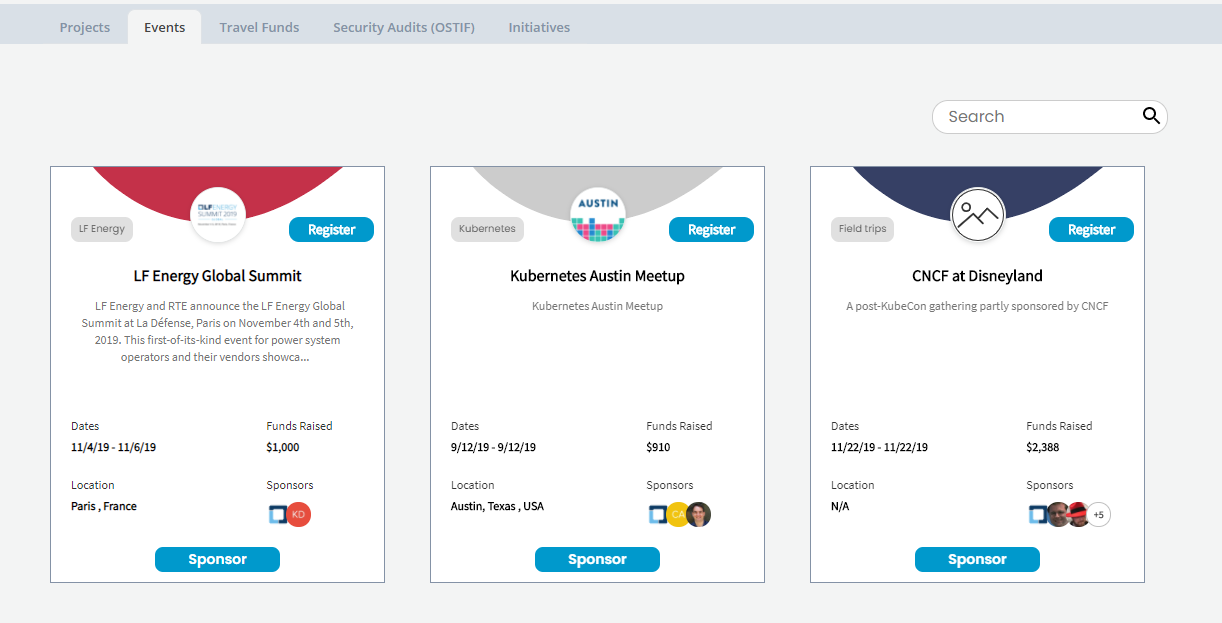
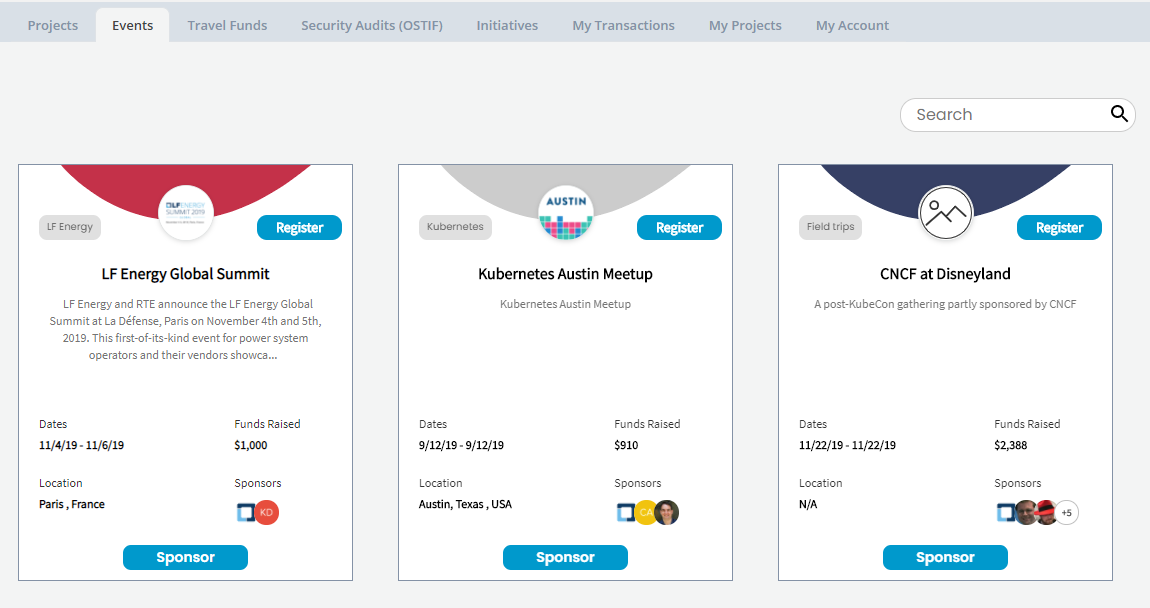
GitBook: [master] 23 pages and 12 assets modified

diff --git a/crowdfunding/dashboard/README.md b/crowdfunding/dashboard/README.md
@@ -2,9 +2,9 @@
 
 Dashboard gives an overview of projects, events, travel funds, security audits, and initiatives of Crowdfunding.
 
-1. [Sign in ](../../sso/sign-in/)to [Crowdfunding](https://funding.communitybridge.org/).
+1. [Sign in ](../../sso/sign-in/)to [Crowdfunding](https://crowdfunding.lfx.linuxfoundation.org/).
 2. From [Projects ](./#Dashboard-ProjectsandMentorships)tab, click a project to navigate to the project dashboard.
-3. Navigate to other tabs, such as [Events](./#Dashboard-Events), [Travel Funds](./#Dashboard-TravelScholarships), [Security Audits \(OSTIF\)](./#security-audits-ostif), [Initiatives](./#initiatives) to learn more about each. 
+3. Navigate to other tabs, such as [Events](./#Dashboard-Events), [Travel Funds](./#Dashboard-TravelScholarships), [Security Audits \(OSTIF\)](./#security-audits-ostif), [Initiatives](./#initiatives), [My Transactions](./#my-transactions), [My Projects](./#my-projects), and [My Account](./#my-account) to learn more about each. 
 4. To participate:
    * [Apply to raise fund for a project](../apply-for-crowdfunding/)
      * [Add a GitHub project](../apply-for-crowdfunding/add-a-github-project.md)
@@ -29,7 +29,7 @@ Dashboard gives an overview of projects, events, travel funds, security audits, 
 
 To learn more, see [Projects](projects.md).
 
-![](../../.gitbook/assets/funding-project-cards.png)
+![Crowdfunding Projects](../../.gitbook/assets/crowdfunding-projects.png)
 
 ## Events <a id="Dashboard-Events"></a>
 
@@ -45,7 +45,7 @@ To learn more, see [Projects](projects.md).
 
 To learn more, see [Events](events.md).
 
-![](../../.gitbook/assets/crowdfunding-events.png)
+![Crowdfunding Events](../../.gitbook/assets/crowdfunding-events.png)
 
 ## Travel Funds <a id="Dashboard-TravelScholarships"></a>
 
@@ -60,7 +60,7 @@ To learn more, see [Events](events.md).
 
 To learn more, see [Travel Funds](travel-funds.md).
 
-![](../../.gitbook/assets/funding-travel-funds.png)
+![Crowdfunding Travelfunds](../../.gitbook/assets/crowdfunding-travel-funds.png)
 
 ## Security Audits \(OSTIF\)
 
@@ -75,11 +75,27 @@ To learn more, see [Travel Funds](travel-funds.md).
 
 To learn more, see [Security Audit](security-audit.md).
 
-![ ](../../.gitbook/assets/security-audit-projects.png)
+![Crowdfunding Projects applied for Security Audit](../../.gitbook/assets/crowdfunding-security-audits.png)
 
 ## Initiatives
 
 Initiatives section includes open-source initiatives for which people have raised funds. You can click an initiative to learn more about it. For details to know about an initiative, see the [project/initiative details](projects.md). Click **Donate** to support the initiative. To know more, see [Initiatives](initiatives.md).
 
-![](../../.gitbook/assets/initiatives.png)
+![Crowdfunding Initiatives](../../.gitbook/assets/crowdfunding-initiatives.png)
+
+## My Transactions
+
+My Transactions shows your monthly donations and lists all your transactions. For details, see [My Transactions](../manage-your-crowdfunding-account.md#my-transactions).
+
+## My Projects
+
+My Projects lets you see all the projects, security audits, initiatives, events, and funds that you maintain all in one place. You can see the status of a project, for example "Pending approval".
+
+Click a project to see the fund details.Click **Edit** on a card to edit the fund details.
+
+## My Account
+
+**My Account** lets you manage your organization, and payment method. For details, see [My Account](../manage-your-crowdfunding-account.md#my-account).
+
+\*\*\*\*
 

diff --git a/crowdfunding/README.md b/crowdfunding/README.md
@@ -27,12 +27,12 @@ Designated **beneficiaries** get reimbursed for their work efforts by submitting
 
 You can participate by applying and submitting your open source project, initiative or event to raise money through crowdfunding, as well as by donating to projects, and sponsoring events and travel funds. 
 
-You must have an [LF SSO account](../sso/create-an-account.md) to sign in to [crowdfunding](https://funding.communitybridge.org/) to participate. For Sign In details, please see [sign in to your account.](../sso/sign-in/)  
+You must have an [LF SSO account](../sso/create-an-account.md) to sign in to [crowdfunding](https://crowdfunding.lfx.linuxfoundation.org/) to participate. For Sign In details, view [sign in to your account.](../sso/sign-in/)  
 **Note:** If you already have an LF SSO account,  you can sign in using your SSO credentials.
 
 ### **Submit an application** <a id="CommunityBridgeFunding-ApplyingforFunding"></a>
 
-**As an individual/project administrator**, ****you can [submit an application](apply-for-crowdfunding/) to list your category on crowdfunding and raise funds for your Git-based open source project. After your fund is approved by the Linux Foundation, it will be publicly visible on the crowdfunding [dashboard](https://funding.communitybridge.org/). You can also apply for event crowdfunding or travel funds by submitting an [Event Application Form](event-application.md) or a [Travel Fund application form](travel-fund-application.md). 
+**As an individual/project administrator**, ****you can [submit an application](apply-for-crowdfunding/) to list your category on crowdfunding and raise funds for your Git-based open source project. After your fund is approved by the Linux Foundation, it will be publicly visible on the [crowdfunding dashboard](https://crowdfunding.lfx.linuxfoundation.org/). You can also apply for event crowdfunding or travel funds by submitting an [Event Application Form](event-application.md) or a [Travel Fund application form](travel-fund-application.md). 
 
 ### Donating/Sponsoring <a id="CommunityBridgeFunding-Donating/Sponsoring"></a>
 

diff --git a/crowdfunding/manage-your-crowdfunding-account.md b/crowdfunding/manage-your-crowdfunding-account.md
@@ -1,0 +1,45 @@
+# Manage Your Crowdfunding Account
+
+You can manage your Crowdfunding account, for example view a record of all your transactions or modify your monthly donations, add organization, add payment method, and so on.
+
+1. [Sign in](../sso/sign-in/) to [Crowdfunding](https://crowdfunding.lfx.linuxfoundation.org/), and select a tab:
+
+* [My Transactions](manage-your-crowdfunding-account.md#my-transactions)
+* [My Projects](manage-your-crowdfunding-account.md#my-projects)
+* [My Account](manage-your-crowdfunding-account.md#my-account)
+
+### My Transactions
+
+My Transactions shows your monthly donations and lists all your transactions with details.
+
+* Click **Cancel Monthly Subscription** on a project to cancel your donation subscription. Click **Yes, cancel subscription** on the confirmation dialog that appears.
+* Click **Discover projects** to go to the Projects page. This option appears when you do not have any Monthly Donations.
+
+![](../.gitbook/assets/7417305.png)
+
+### My Projects
+
+My Projects lets you see all the projects, security audits, initiatives, events, and funds that you maintain all in one place. You can see the status of a project, for example "Pending approval".
+
+Click a project to see the fund details.Click **Edit** on a card to edit the fund details.
+
+**Note: Mentorship Goal** is displayed under **Fund Distribution** if your project is enrolled in the Mentorship program. 
+
+### **My Account**
+
+**My Account** lets you manage your organization, and payment method.
+
+**Manage Organization** lets you add or edit your organization. Click **+ Add Organization** to add an organization.
+
+![](../.gitbook/assets/7417301.png)
+
+**Payment Method** lets you add or change your credit or debit card provider and number.
+
+Click **Add Card** to add your card details.
+
+![](../.gitbook/assets/add-card.png)
+
+Click **Edit Card** or **Delete Card** to edit or delete an existing payment method, respectively.
+
+![](../.gitbook/assets/7417299.png)
+

diff --git a/crowdfunding/dashboard/travel-funds.md b/crowdfunding/dashboard/travel-funds.md
@@ -2,7 +2,7 @@
 
 Travel Funds provide financial assistance to need-based individuals for travel expenses such as travel to a Linux Foundation conference or an open source project-related technical summit. You can donate to the travel funds that you want to support.
 
-1. [Sign in ](../../sso/sign-in/)to [Funding](https://funding.communitybridge.org/), click [Travels Funds](./#Dashboard-TravelScholarships) tab, and select a travel fund to navigate to the dashboard.
+1. [Sign in ](../../sso/sign-in/)to [Crowdfunding](https://crowdfunding.lfx.linuxfoundation.org/), click [Travels Funds](./#Dashboard-TravelScholarships) tab, and select a travel fund to navigate to the dashboard.
 2. Select one of the following tabs to view details:
    * [Overview](travel-funds.md#TravelScholarships-Overview)
    * [Dashboard](travel-funds.md#TravelScholarships-Dashboard)
@@ -33,9 +33,10 @@ The Dashboard shows various aspects of the fund depending on the data that is av
 | **Current Balance** | The total amount of funds available in the account. |
 | **Donations** | The amount of money that has been donated to the project. |
 | **Expenses**  | The amount of money spent or costs incurred for the project, which indicate the cost of doing business. |
-| **Travel Funding Distribution** | Shows how meet-up funds are distributed and their dollar amounts. |
+| **Travel Fund Funding Distribution** | Shows how meet-up funds are distributed and their dollar amounts. |
+| **Breakdown** | The financial goal and progress towards it by individual goal. |
+| **Recent Transactions** | Lists recorded financial transactions in chronological order. Click **View all transactions** to see a log of transactions in the Financial tab. |
 
-  
 View an example of a travel fund dashboard section:
 
 ![](../../.gitbook/assets/7418524%20%281%29.jpg)

diff --git a/crowdfunding/dashboard/events.md b/crowdfunding/dashboard/events.md
@@ -2,7 +2,7 @@
 
 Events page displays the project related events that are organized for specific reasons. You can [donate](../donate-sponsor/) to the events that you want to support, and also [register](../register-for-an-event.md) to attend an event.
 
-1. [Sign in ](../../sso/sign-in/)to [Funding](https://funding.communitybridge.org/), click [Events](./#Dashboard-Events) tab, and select an event to navigate to the event's dashboard. 
+1. [Sign in ](../../sso/sign-in/)to [Crowdfunding](https://crowdfunding.lfx.linuxfoundation.org/), click [Events](./#Dashboard-Events) tab, and select an event to navigate to the event's dashboard. 
 2. Select one of the following tabs to view details:
    * [Overview](events.md#Events-Overview)
    * [Dashboard](events.md#Events-Dashboard)
@@ -21,7 +21,6 @@ The overview shows some or all of the following items depending on the data that
 | **Sponsor** | Click Sponsor to [donate](../donate-sponsor/) to the event. |
 | **Current Balance** | The total amount of funds available in the account. |
 | **Sponsor Organizations** | The logos of companies that sponsor the project. |
-| **Sponsorships** | The logos for the types of sponsorships. |
 
   
 View an example of an event overview section:
@@ -48,7 +47,7 @@ View an example of an event dashboard section:
 
 ## Financial <a id="Events-Financial"></a>
 
-The Financial tab lists all transactions with details in chronological order. Click the icon next to Fees to see the see distribution of applicable fees.
+The Financial tab lists all transactions with details in chronological order. Click the icon beside Fees to see the see distribution of applicable fees.
 
 ![](../../.gitbook/assets/fees-icon-events.png)
 

diff --git a/SUMMARY.md b/SUMMARY.md
@@ -201,10 +201,10 @@
 * [Crowdfunding](crowdfunding/README.md)
   * [Dashboard](crowdfunding/dashboard/README.md)
     * [Projects](crowdfunding/dashboard/projects.md)
-    * [Security Audit](crowdfunding/dashboard/security-audit.md)
-    * [Initiatives](crowdfunding/dashboard/initiatives.md)
     * [Events](crowdfunding/dashboard/events.md)
     * [Travel Funds](crowdfunding/dashboard/travel-funds.md)
+    * [Security Audit](crowdfunding/dashboard/security-audit.md)
+    * [Initiatives](crowdfunding/dashboard/initiatives.md)
     * [Integrated Services for a Project](crowdfunding/dashboard/integrated-services-for-a-project.md)
     * [Search](crowdfunding/dashboard/search.md)
     * [Toggle Between Funding and Mentorship for a Project](crowdfunding/dashboard/toggle-between-funding-and-mentorship-for-a-project.md)
@@ -226,7 +226,7 @@
   * [Travel Fund Application](crowdfunding/travel-fund-application.md)
   * [Security Audit Application](crowdfunding/security-audit-application.md)
   * [Initiative Application](crowdfunding/initiative-application.md)
-  * [Manage Your Funding Account](crowdfunding/manage-your-funding-account.md)
+  * [Manage Your Crowdfunding Account](crowdfunding/manage-your-crowdfunding-account.md)
   * [Get Reimbursed](crowdfunding/get-reimbursed.md)
   * [Submit Travel Funding Reimbursement Expensify Report](crowdfunding/submit-travel-funding-reimbursement-expensify-report.md)
   * [How to Create and Submit an Expensify Report](crowdfunding/how-to-create-and-submit-an-expensify-report.md)

diff --git a/crowdfunding/crowdfunding-faqs.md b/crowdfunding/crowdfunding-faqs.md
@@ -4,7 +4,7 @@
 
 LFX Crowdfunding enables a simple, managed process for your open source project to raise funds from donors to reimburse project contributors for project expenses. Crowdfunding is free for open source projects, and every dollar of the first $10M raised through Crowdfunding will be passed directly to the projects hosted on LFX, resulting in more money to support critical work on your project. Additionally, funds raised via Crowdfunding can be applied towards mentorship programs via the LFX Mentorship service.
 
-## Are donors charged fees for donations to a project on LFX? <a id="FundingFAQs-AredonorschargedfeesfordonationstoaprojectonCommunityBridge?"></a>
+## Are donors charged fees for donations to a project on LFX platform? <a id="FundingFAQs-AredonorschargedfeesfordonationstoaprojectonCommunityBridge?"></a>
 
 For the first $10M USD donated to projects through LFX Crowdfunding, the Linux Foundation will underwrite all platform fees as well as any fees charged by third-party payment processors. Every dollar of the first $10M raised through Crowdfunding will be available to the projects hosted on LFX for their use. Once the $10M milestone has been reached, contributions from individual and corporate donors will be subject to a 5% platform fee plus a payment processor fee.
 

diff --git a/crowdfunding/apply-for-crowdfunding/add-a-project-for-security-audit.md b/crowdfunding/apply-for-crowdfunding/add-a-project-for-security-audit.md
@@ -2,14 +2,14 @@
 
 You can submit an application to [Open Source Technology Improvement Fund](https://ostif.org/the-ostif-mission/)\(OSTIF\) through Crowdfunding. OSTIF reviews your application, and if approved, it determines the funding goal amount for your project, post which you must add the funding goal in the respective field as shown in the [Security Audit Application ](../security-audit-application.md)form.
 
-1. [Sign in](../../sso/sign-in/) to [Funding](https://funding.communitybridge.org/).
+1. [Sign in](../../sso/sign-in/) to [Crowdfunding](https://crowdfunding.lfx.linuxfoundation.org/).
 2. Click **Apply** and select **ADD SECURITY AUDIT**.  ![](../../.gitbook/assets/add-security-audit.png) 
 3. Complete the [security audit application form](../security-audit-application.md). Red asterisks indicate required fields.
 4. Click **Submit Application.**
 5. \(Optional\) Click **My Projects** tab to view your pending project.
 
 {% hint style="info" %}
-You can edit your project at any time. Select the project you want to update and select **Edit Project.**
+You can edit your project at any time. Select the project that you want to update, and click **Edit Project.**
 {% endhint %}
 
   

diff --git a/crowdfunding/apply-for-crowdfunding/add-a-git-project.md b/crowdfunding/apply-for-crowdfunding/add-a-git-project.md
@@ -11,15 +11,13 @@ Keep these items ready before you begin, although they are not required:
 * A list of names and email addresses for the individuals who will benefit from working on the project
 {% endhint %}
 
-1. [Sign in](../../sso/sign-in/) to [Funding](https://funding.communitybridge.org/).
-2. Click **Apply** and ****Select **ADD GIT PROJECT.**  ![](../../.gitbook/assets/add-git-project%20%281%29.png) 
+1. [Sign in](../../sso/sign-in/) to [Crowdfunding](https://crowdfunding.lfx.linuxfoundation.org/).
+2. Click **Apply** from top right of the page, ****and ****Select **ADD GIT PROJECT.**  ![](../../.gitbook/assets/add-git-project%20%281%29.png) 
 3. Complete a [project application form](../project-application.md); red asterisks indicate required fields. 
 4. Click **Submit Application.**
 5. \(Optional\) Click **My Projects** tab to view your pending project.
 
 {% hint style="info" %}
-You can edit your project at any time. Select the project you want to update and click **Edit Project.**
+You can edit your project at any time. Select the project that you want to update, and click **Edit Project.**
 {% endhint %}
-
-
 

diff --git a/crowdfunding/apply-for-crowdfunding/add-an-event.md b/crowdfunding/apply-for-crowdfunding/add-an-event.md
@@ -7,9 +7,9 @@ Have these items handy before you begin:
 * A list of the names and email addresses for the individuals who you want to benefit from the fund
 {% endhint %}
 
-1. [Sign in](../../sso/sign-in/) to [Funding](https://funding.communitybridge.org/).
+1. [Sign in](../../sso/sign-in/) to [Crowdfunding](https://crowdfunding.lfx.linuxfoundation.org/).
 2. Click **Apply** and select **ADD EVENT**.  ![](../../.gitbook/assets/add-event.png) 
 3. Complete the [event application form](../event-application.md). Red asterisks indicate required fields.
 4. Click **Submit Application**.
-5. \(Optional\) Click **My Projects** tab to view your event pending for approval.   **Note:** You can edit your event at any time. Select the event that you want to update and click **Edit Event**.
+5. \(Optional\) Click **My Projects** tab to view your event pending for approval.  **Note:** You can edit your event at any time. Select the event that you want to update, and click **Edit Event**.
 

diff --git a/crowdfunding/apply-for-crowdfunding/add-initiatives.md b/crowdfunding/apply-for-crowdfunding/add-initiatives.md
@@ -9,14 +9,14 @@ Keep these items ready before you begin:
 * A list of names and email addresses for the individuals who you want to benefit from the fund
 {% endhint %}
 
-1. [Sign in](../../sso/sign-in/) to [Funding](https://funding.communitybridge.org/).
+1. [Sign in](../../sso/sign-in/) to [Crowdfunding](https://crowdfunding.lfx.linuxfoundation.org/).
 2. Click **Apply** and select **ADD INITIATIVE**.  ![](../../.gitbook/assets/add-initiative.png) 
 3. Complete the[ initiative application form](../initiative-application.md). Red asterisks indicate required fields.
 4. Click **Submit Application.**
 5. \(Optional\) Click **My Projects** tab to view your pending project.
 
 {% hint style="info" %}
-You can edit your project at any time. Select the project you want to update and select **Edit Project.**
+You can edit your project at any time. Select the project you want to update, and click **Edit Project.**
 {% endhint %}
 
   

diff --git a/crowdfunding/donate-sponsor/sponsor-events.md b/crowdfunding/donate-sponsor/sponsor-events.md
@@ -13,14 +13,10 @@ Keep these items ready before you begin:
 
  ****1. [Sign in](../../sso/sign-in/) to [Crowdfunding](https://funding.communitybridge.org/). ****
 
-2. From **Events** tab, select **Sponsor** on an event of interest.  
-  
- ![](../../.gitbook/assets/sponsor-an-event.png)   
-  
+2. From **Events** tab, select **Sponsor** on an event of interest.   
 The New Donation form appears, for example:           
                                                                                                                                                                                                 
-![](../../.gitbook/assets/7418588.png)  
-
+![](../../.gitbook/assets/7418588.png)
 
 3. Select **Individual** or an **Organization**. If you select **Organization,** you can [add, edit, or delete an organization](donate-as-a-sponsor/add-edit-or-delete-an-organization.md) anytime.
 
